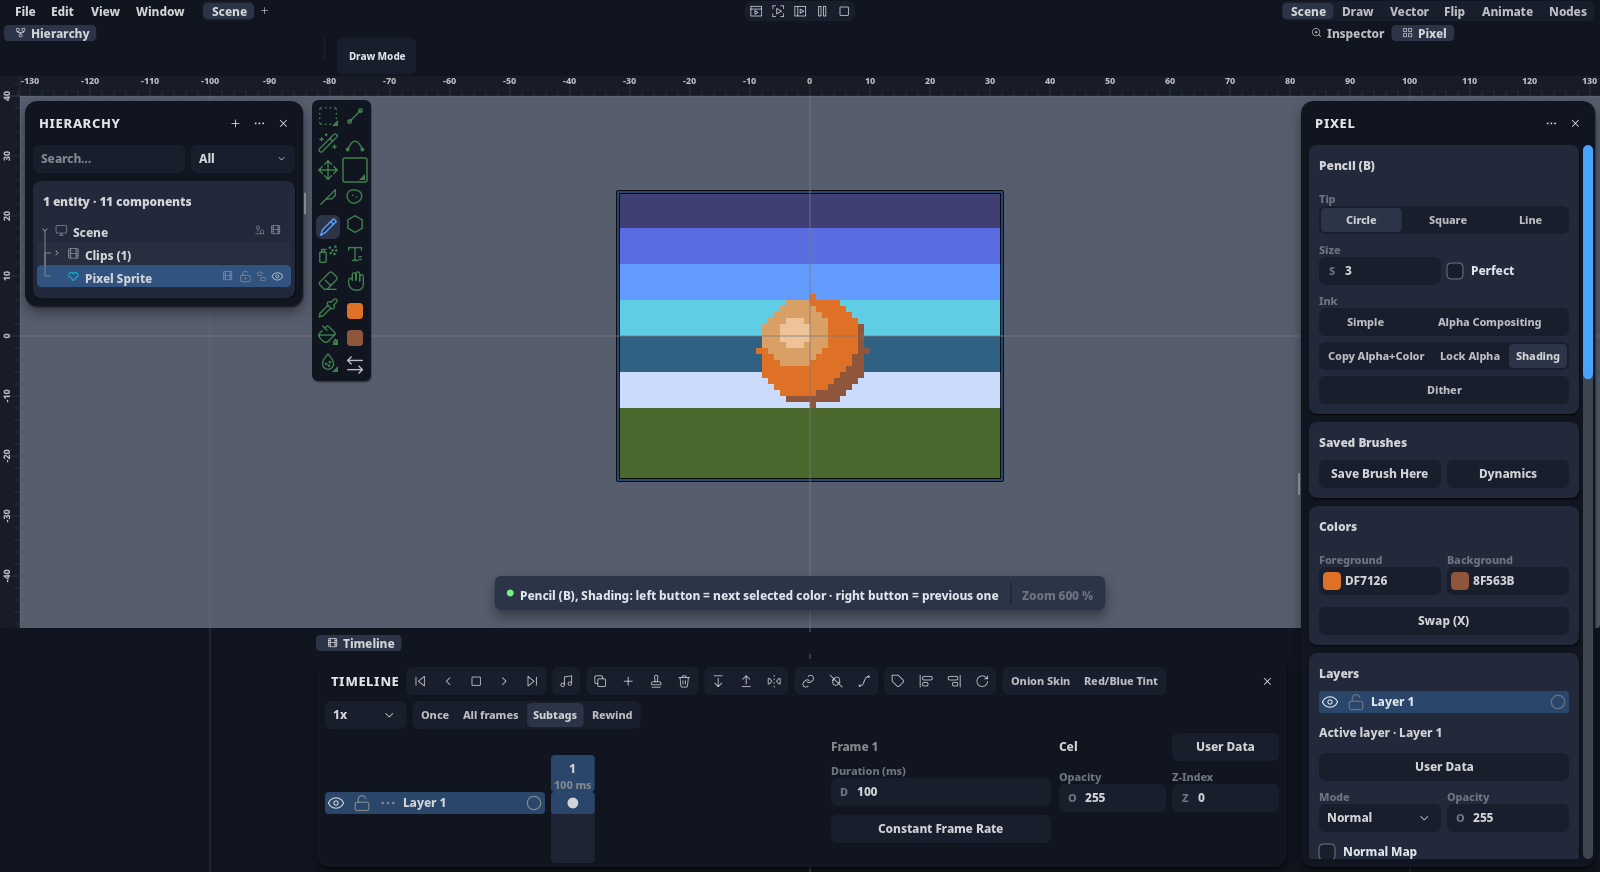
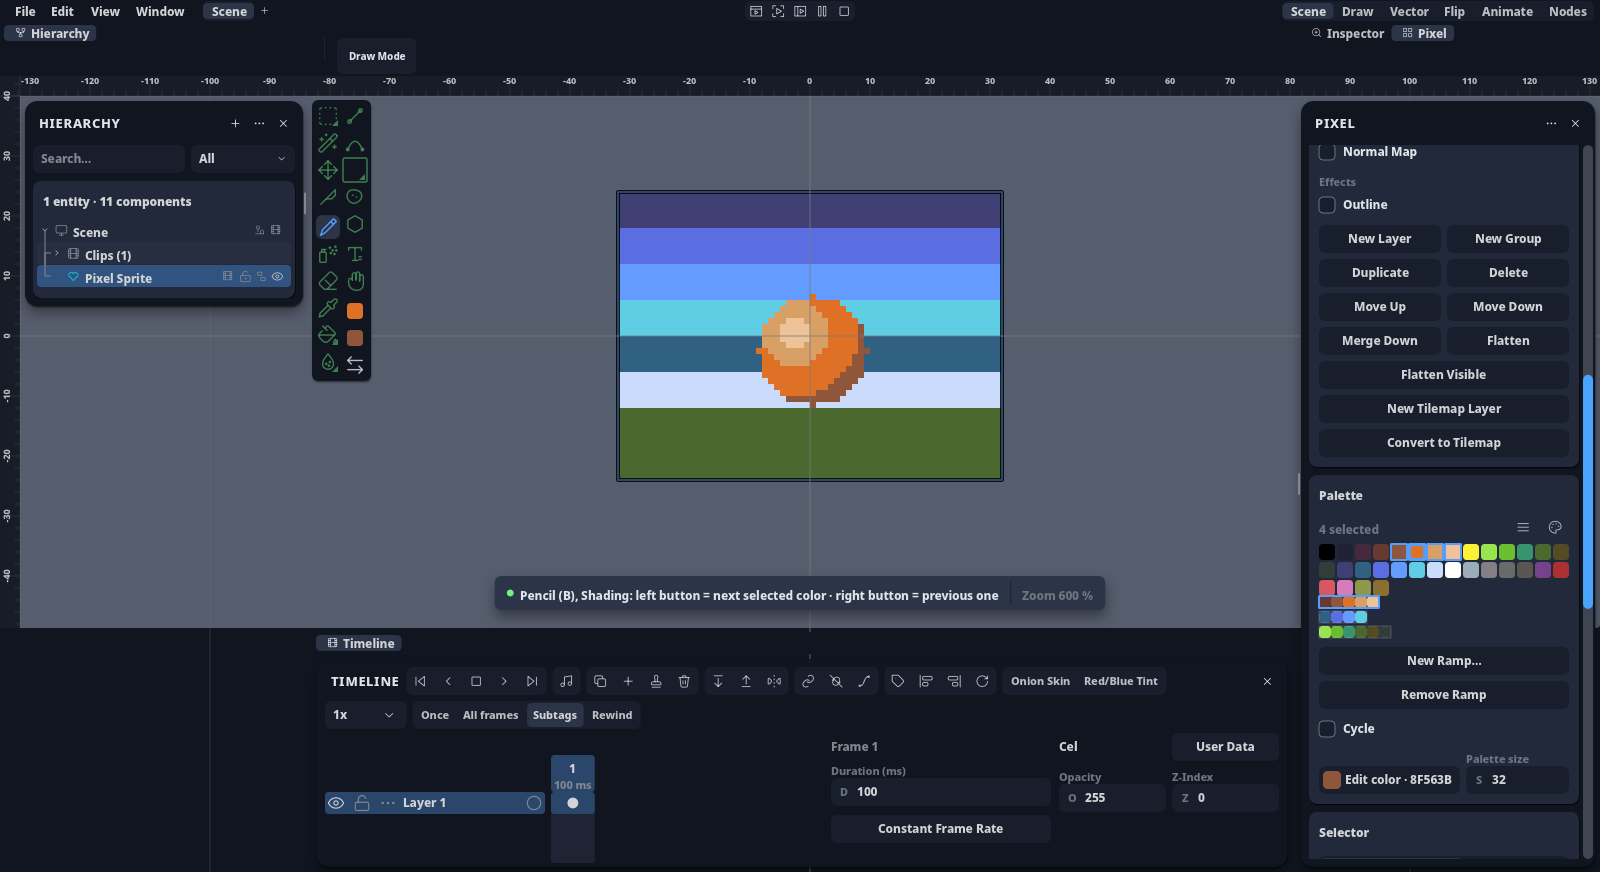
fix(pixel P13 cenas): 28 rolada até às rampas e o ciclo em 2 fotos; 31 bola na rampa Skin com Light: Palette; 32 legível; 34 em Draw com a Preview esticada
A 31 volta: herói trocado por uma bola 16×16 no degrau 2 da rampa Skin; a sonda mede a lei luz_na_rampa
(claro ⇒ 3, escuro ⇒ 1, aceso na paleta, Smooth fora). A 32 tira a grade iso e o gradiente. A 34 descobre que
a Preview de fábrica não tem altura para a imagem com o cartão CRT (fica para o produto).

Changed region(s): [[0.8125, 0.1548, 1.0, 0.9908]]

diff --git a/crates/ph2d-pixel-cenas/src/p13.rs b/crates/ph2d-pixel-cenas/src/p13.rs
@@ -7,7 +7,7 @@ use ph2d_editor_core::screens::hero::{HeroScreen, PANEL_PIXEL_LINT, PANEL_PIXEL_
 use ph2d_pixel_core::audio::FaixaDeAudio;
 use ph2d_pixel_core::cycle::{Cycle, CycleDirection};
 use ph2d_pixel_core::dither::{Dither, PincelDither};
-use ph2d_pixel_core::guia::{Guias, Iso2x1};
+use ph2d_pixel_core::guia::Guias;
 use ph2d_pixel_core::palette::DEFAULT as DB32;
 use ph2d_pixel_core::{DocOp, NewSprite, Op, Patch, Sprite, apply};
 
@@ -18,6 +18,8 @@ pub type Pedidos = Vec<PixelRequest>;
 pub struct Cena {
     pub base: u32,
     pub monta: fn(&mut Sprite) -> Option<Pedidos>,
+    /// A cena abre o objecto em Draw (a 34: a Preview só mostra um Pixel Sprite em Draw).
+    pub draw: bool,
 }
 
 /// A cena `n` (28..=36).
@@ -27,7 +29,7 @@ pub fn cena(n: u32) -> Option<Cena> {
         28 => (3, rampas),
         29 => (4, foto),
         30 => (4, dither),
-        // 31 (Light: Palette) fica de fora: o herói da 26 não tem rampas, e a cena mostraria o contrário.
+        31 => (26, luz),
         32 => (4, guias),
         33 => (4, lint),
         34 => (26, |_| Some(Vec::new())),
@@ -35,7 +37,11 @@ pub fn cena(n: u32) -> Option<Cena> {
         36 => (4, fala),
         _ => return None,
     };
-    Some(Cena { base, monta })
+    Some(Cena {
+        base,
+        monta,
+        draw: n == 34,
+    })
 }
 
 fn op(s: &mut Sprite, d: DocOp) -> Option<()> {
@@ -69,6 +75,12 @@ pub const RAMPAS_28: [(&str, &[u8]); 3] = [
     ("Water", &[16, 17, 18, 19]),
     ("Leaf", &[9, 10, 11, 12, 13, 14]),
 ];
+/// A rolagem do painel PIXEL na cena 28 (px lógicos): o cartão Palette e a faixa das rampas à vista.
+pub const ROLAGEM_28: f32 = 700.0;
+/// Os quadros em que a cena ainda arruma a vista (rolagem, tamanho da janela).
+pub const QUADROS_DA_CENA: u32 = 120;
+/// Quanto a janela Preview da 34 cresce (px lógicos: largura, altura).
+pub const ESTICA_34: [f32; 2] = [60.0, 300.0];
 /// O período do ciclo da água.
 pub const CICLO_28_MS: u32 = 400;
 
@@ -145,31 +157,85 @@ fn dither(s: &mut Sprite) -> Option<Pedidos> {
     Some(vec![PixelRequest::Tool(PixelTool::Push)])
 }
 
+/// A cor do meio da rampa Skin da cena 31 (a rampa nasce dela, 5 degraus).
+pub const PELE_31: [u8; 4] = [196, 120, 84, 255];
+/// O lado da bola da cena 31.
+pub const BOLA_31: u32 = 16;
+
+/// A rampa Skin da cena 31, do escuro para o claro (o degrau do meio é [`PELE_31`]).
+#[must_use]
+pub fn rampa_31() -> Vec<[u8; 4]> {
+    let cfg = ph2d_pixel_ponte::rampas::config(ph2d_editor_core::pixel_panel::PixelRampConfig {
+        steps: 5,
+        ..Default::default()
+    });
+    let mut r = ph2d_pixel_rampa::gera_rampa(PELE_31, cfg);
+    r[2] = PELE_31;
+    r
+}
+
+/// O herói da 31: uma bola 16 × 16 pintada TODA no degrau do meio da rampa Skin, com «Light:
+/// Palette» ligado — a lâmpada da 26 à esquerda escolhe o degrau de cada lado.
 fn luz(s: &mut Sprite) -> Option<Pedidos> {
-    let o = ph2d_pixel_core::ramp::set_luz_na_paleta(s, true)?;
-    apply(s, o).ok()?;
+    let pal = rampa_31();
+    let n = BOLA_31 as i32;
+    let px = (0..n * n)
+        .flat_map(|k| {
+            let (x, y) = (k % n - n / 2, k / n - n / 2);
+            if x * x + y * y <= (n / 2 - 1).pow(2) {
+                PELE_31
+            } else {
+                [0; 4]
+            }
+        })
+        .collect();
+    let spec = NewSprite {
+        width: BOLA_31,
+        height: BOLA_31,
+        ..NewSprite::default()
+    };
+    let mut b = Sprite::with_palette(spec, &pal).ok()?;
+    let r = b.bounds();
+    let (layer, frame) = (b.layers()[0].id, b.frames()[0].id);
+    let p = Patch {
+        layer,
+        frame,
+        bbox: Some(r),
+        rect: r,
+        pixels: px,
+    };
+    apply(&mut b, Op::Patch(p)).ok()?;
+    let add = DocOp::AddRamp {
+        name: "Skin".into(),
+        indices: (0..5).collect(),
+    };
+    op(&mut b, add)?;
+    let o = ph2d_pixel_core::ramp::set_luz_na_paleta(&b, true)?;
+    apply(&mut b, o).ok()?;
+    *s = b;
     Some(Vec::new())
 }
 
 /// Os pontos de fuga e a grade iso da cena 32 (células).
 pub const FUGA_32: [[f32; 2]; 2] = [[-8.0, 12.0], [72.0, 12.0]];
-pub const ISO_32: Iso2x1 = Iso2x1 {
-    origem: [40.0, 30.0],
-    passo: 4,
-};
+/// O fundo liso da cena 32 (um cinza claro da DB32).
+pub const FUNDO_32: [u8; 4] = DB32[21];
 
 fn guias(s: &mut Sprite) -> Option<Pedidos> {
+    // Fundo liso (o gradiente da base competia com os raios) e só a perspectiva: o bloco iso
+    // desenha-se à mão em 2:1, longe da linha guiada.
+    *s = tela(64, 48, (0..64 * 48).flat_map(|_| FUNDO_32).collect())?;
     let g = Guias {
         pontos_de_fuga: [Some(FUGA_32[0]), Some(FUGA_32[1]), None],
         horizonte: Some(FUGA_32[0][1]),
-        iso: Some(ISO_32),
+        iso: None,
     };
     op(s, DocOp::SetGuias(g))?;
     // Uma linha guiada: do canto (20, 40) para o ponto de fuga da esquerda; e o bloco iso.
     pinta(s, |p| {
         let (a, f) = ([20.0f32, 40.0], FUGA_32[0]);
-        for k in 0..=20 {
-            let t = k as f32 / 32.0;
+        for k in 0..=26 {
+            let t = k as f32 / 40.0;
             let (x, y) = (a[0] + (f[0] - a[0]) * t, a[1] + (f[1] - a[1]) * t);
             p(x.round() as i32, y.round() as i32, DB32[27]);
         }
@@ -455,7 +521,16 @@ fn fala(s: &mut Sprite) -> Option<Pedidos> {
 
 /// Uma vez por quadro, com o nível armado: abre a janela que a cena mostra.
 pub fn conduz(hero: &mut HeroScreen, nivel: Option<u32>) {
+    // Os primeiros quadros (o painel nasce rolado a 0 quando a cena entra em Draw): depois, a roda é do dono.
+    static Q: std::sync::atomic::AtomicU32 = std::sync::atomic::AtomicU32::new(0);
+    let cedo = Q.fetch_add(1, std::sync::atomic::Ordering::Relaxed) < QUADROS_DA_CENA;
     let painel = match nivel {
+        // A 28 abre o painel PIXEL rolado até ao cartão Palette e à faixa das rampas.
+        Some(28) if cedo => {
+            let id = ph2d_editor_core::ids::PIXEL_PANEL;
+            hero.store.set_panel_scroll(id, ROLAGEM_28);
+            return;
+        }
         Some(33) => PANEL_PIXEL_LINT,
         Some(34) => {
             let v = ph2d_pixel_crt::vista::vista();
@@ -464,6 +539,13 @@ pub fn conduz(hero: &mut HeroScreen, nivel: Option<u32>) {
                     ligada: true,
                     ..v
                 });
+            }
+            // A janela Preview esticada para baixo, como o dono a arrastaria pelo canto: o cartão
+            // CRT come a altura de fábrica e a imagem ficava sem lugar.
+            if cedo {
+                let id = ph2d_editor_core::ids::PIXEL_PREVIEW_PANEL;
+                hero.store
+                    .set_panel_resize_delta(id, ESTICA_34[0], ESTICA_34[1]);
             }
             PANEL_PIXEL_PREVIEW
         }

diff --git a/shells/pixel-scenes/tests/it/cenas_p13.rs b/shells/pixel-scenes/tests/it/cenas_p13.rs
@@ -75,6 +75,17 @@ fn a_sonda_das_cenas_28_a_36() {
         r.cycles[0].periodo_ms
     );
     assert_eq!(mexem, 4);
+    let cor_agua: BTreeSet<[u8; 4]> = p13::RAMPAS_28[1]
+        .1
+        .iter()
+        .map(|&i| s.palette()[usize::from(i)])
+        .collect();
+    let agua = rgba(s, 0)
+        .chunks_exact(4)
+        .filter(|c| cor_agua.contains(&[c[0], c[1], c[2], c[3]]))
+        .count();
+    println!("28: px da água (mudam de cor a cada passo do ciclo): {agua}");
+    assert!(agua > 0);
 
     // 29: Exact RGB × Keep ramps, lado a lado.
     let (a, b, pal) = p13::foto_lado_a_lado().expect("foto");
@@ -118,13 +129,46 @@ fn a_sonda_das_cenas_28_a_36() {
     assert!(fr[0] < fr[1] && fr[1] < fr[2]);
     assert_eq!(app.tool, ph2d_app_pixel::Tool::Push);
 
-    assert!(p13::cena(31).is_none(), "a 31 espera rampas no herói");
+    // 31: a bola da rampa Skin com Light: Palette. A lei da luz na rampa (a mesma da placa,
+    // `luz_rampa_placa`) a dois níveis de luz: o lado da lâmpada e o lado de lá.
+    let (app, _sim, k) = monta(31);
+    let s = sprite(&app, k);
+    assert!(s.ramps().ramps.len() == 1 && s.ramps().luz_na_paleta);
+    let pal: BTreeSet<[u8; 4]> = s.palette().iter().copied().collect();
+    let lut = ph2d_pixel_rampa::luz::LutDaLuz::da_paleta(s.palette(), s.ramps());
+    let usadas = cores(&rgba(s, 0));
+    let (claro, escuro) = ([1.5f32; 3], [0.35f32; 3]);
+    let mut degraus = Vec::new();
+    let mut fora_suave = 0;
+    for c in &usadas {
+        let (slot, pos) = lut.degrau_de(*c).expect("a cor está na rampa");
+        let r = &lut.rampas[slot];
+        for l in [claro, escuro] {
+            let aceso = ph2d_pixel_rampa::luz::luz_na_rampa(*c, r, pos, l);
+            assert!(pal.contains(&aceso), "aceso na paleta");
+            let suave = [0, 1, 2].map(|i| (f32::from(c[i]) * l[i]).min(255.0) as u8);
+            fora_suave += usize::from(!pal.contains(&[suave[0], suave[1], suave[2], 255]));
+        }
+        degraus.push((
+            pos,
+            ph2d_pixel_rampa::luz::degrau_aceso(r, pos, claro),
+            ph2d_pixel_rampa::luz::degrau_aceso(r, pos, escuro),
+        ));
+    }
+    println!(
+        "31: rampa Skin {} degraus; cores da bola {}; (degrau, aceso claro, aceso escuro) {degraus:?}; Smooth fora da paleta {fora_suave} de {}",
+        s.ramps().ramps[0].indices.len(),
+        usadas.len(),
+        2 * usadas.len()
+    );
+    assert!(degraus.iter().all(|(_, c, e)| c >= &(e + 1)));
+    assert!(fora_suave > 0);
 
     // 32: as guias no documento.
     let (app, _sim, k) = monta(32);
     let g = sprite(&app, k).guias();
     println!("32: guias {g:?}");
-    assert!(g.pontos_de_fuga[0].is_some() && g.pontos_de_fuga[1].is_some() && g.iso.is_some());
+    assert!(g.pontos_de_fuga[0].is_some() && g.pontos_de_fuga[1].is_some() && g.iso.is_none());
 
     // 33: os vícios que o lint acha.
     let (app, _sim, k) = monta(33);

diff --git a/crates/ph2d-app-pixel/src/smoke.rs b/crates/ph2d-app-pixel/src/smoke.rs
@@ -127,12 +127,12 @@ impl<F: FnOnce(&mut SimWorld, &str) -> u64> Raiz for F {}
 fn p13(app: &mut PixelApp, sim: &mut SimWorld, n: u32, r: impl Raiz) -> Option<()> {
     let c = ph2d_pixel_cenas::p13::cena(n)?;
     stage(app, sim, c.base, r).then_some(())?;
-    let d = app
-        .docs
-        .get_mut(&crate::mode::sprites(sim.world()).first()?.1)?;
+    let (bits, key) = *crate::mode::sprites(sim.world()).first()?;
+    let d = app.docs.get_mut(&key)?;
     let pedidos = (c.monta)(&mut d.sprite)?;
     (d.frame, d.layer) = (d.sprite.frames()[0].id, d.sprite.layers()[0].id);
     pedidos.into_iter().for_each(|r| app.pede(r));
+    app.wants_edit = app.wants_edit.or(c.draw.then_some(bits));
     Some(())
 }
 

diff --git a/docs/PixelArt/P13_plano.md b/docs/PixelArt/P13_plano.md
@@ -696,3 +696,15 @@ Fotos 1600×900 olhadas: `docs/PixelArt/handoffs/smoke_P13_cena<n>_2026-11-09.pn
 
 **Fica:** a 31 (rampas para o herói ou outra base com rampas + lâmpada); a 28 abrir o cartão Palette já rolado nas
 rampas; a 34 entrar em Draw no Hero para a Preview mostrar a CRT; na 32, aliviar a grade para a linha e o bloco se lerem.
+
+**Curas das cenas 28, 31, 32, 34 (09/11, agente).** 28: o painel PIXEL abre rolado (`ROLAGEM_28` = 700 px nos
+primeiros 120 quadros) no cartão Palette com as 3 faixas de rampa; o ciclo prova-se em 2 fotos a 0,2 s sob Play
+(`smoke_P13_cena28_2026-11-09{,_02}.png`): 47 988 de 79 800 px do sprite mudam, o painel igual byte a byte; a sonda:
+1 349 px da água. 31: base 26 com o herói trocado por uma bola 16×16 toda no degrau 2 da rampa Skin (5, gerada de
+(196,120,84)), Light: Palette; sonda pela lei `luz_na_rampa`: claro (1,5) ⇒ degrau 3, escuro (0,35) ⇒ degrau 1, aceso
+sempre na paleta, Smooth 2/2 fora dela; a foto mostra os degraus concêntricos a partir da lâmpada. 32: fundo liso e
+só a perspectiva (iso desenhado à mão, sem grade): a linha guiada e o bloco leem-se. 34: o Hero entra em Draw
+(`Cena::draw`, `app.wants_edit`) e a janela Preview estica (`set_panel_resize_delta`, `ESTICA_34`): a imagem do herói
+aparece com a CRT. ⚠ Defeito achado: com o cartão CRT, a Preview de fábrica (altura fixa) fica SEM lugar para a
+imagem — a cena estica-a como o dono faria; a cura do tamanho da janela fica para o produto. Contador de passes CRT
+sem sonda (só a foto).
